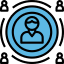
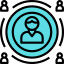
Offering image changed

diff --git a/src/components/OfferingComp.jsx b/src/components/OfferingComp.jsx
@@ -23,7 +23,7 @@ function OfferingComp({img ,title, description}) {
     <div>
       {/*Laptop */}
       <div className='hidden lg:block'>
-        <div className='h-80 w-80 drop-shadow-white rounded-md bg-white border border-blue-1 ease-out duration-200 hover:scale-[1.15] '>
+        <div className='h-80 w-80 drop-shadow-white rounded-md bg-white border border-blue-2 ease-out duration-200 hover:scale-[1.15] '>
           <img src={img} alt="offerings-bg" className='w-16 h-16 mx-auto mt-10' />
           <p className='text-black text-lg font-bold mt-7 text-center '>{title}</p>
           <p className='text-black text-sm font-light leading-relaxed mt-7 text-center px-12'>{description}</p>
@@ -34,7 +34,7 @@ function OfferingComp({img ,title, description}) {
         {/* <motion.div
           transition={{ duration: 0.3 }} variants={fadeDown} initial="initial" whileInView="animate" viewport={{ once: false, amount: 0.8 }}
         > */}
-        <div className='h-[165px] w-[155px] sm:h-56 sm:w-56 drop-shadow-white rounded-md bg-white border border-blue-1 mt-10 ease-out duration-200 hover:scale-[1.15]'>
+        <div className='h-[165px] w-[155px] sm:h-56 sm:w-56 drop-shadow-white rounded-md bg-white border border-blue-2 mt-10 ease-out duration-200 hover:scale-[1.15]'>
           <img src={img} alt="offerings-bg" className='w-10 sm:w-14 h-10 sm:h-14 mx-auto mt-4 sm:mt-6' />
           <p className='text-black text-[11px] sm:text-sm font-bold mt-4 sm:mt-6 text-center '>{title}</p>
           <p className='text-black text-[9px] font-light leading-relaxed mt-1.5  sm:mt-3 text-center px-2 sm:px-5'>{description}</p>

diff --git a/src/components/Offerings.jsx b/src/components/Offerings.jsx
@@ -24,9 +24,11 @@ function Offerings() {
       <div id='services'>
         {/*Laptop */}
       <div className='hidden md:block bg-white-1 ' >
+        <img src="/assets/images/offerings/hand.png" alt="bulb" className='invisible absolute' />
         <div className='flex'>
           <div><img src="/assets/images/offerings/Bulb.png" alt="bulb" className='invisible' /></div>
-          <div className='w-10/12 mx-auto'><div className='py-20'>
+          <div className='w-10/12 mx-auto'>
+            <div className='py-20'>
             <div>
               <p className='text-black font-bold opacity-60 text-base text-center tracking-widest'>SERVICES</p>
               <h1 className='text-black font-bold text-5xl text-center mt-5'>WE OFFER</h1>
@@ -104,7 +106,6 @@ function Offerings() {
           </div></div>
           <div><img src="/assets/images/offerings/Bulb.png" alt="bulb" className='sticky top-0' /></div>
         </div>
-        
         
         </div>
         {/*Mobiles*/}

diff --git a/tailwind.config.js b/tailwind.config.js
@@ -17,6 +17,7 @@ module.exports = {
       colors: {
         'dark': '#0c0c0f',
         'blue-1': '#5CB8E4',
+        'blue-2': '#5CDCE4',
         'white-1': '#f5f5fa',
         'blue-2': 'rgba(92, 184, 228, .4)',
         'green': 'rgba(106, 226, 199, .5)'
